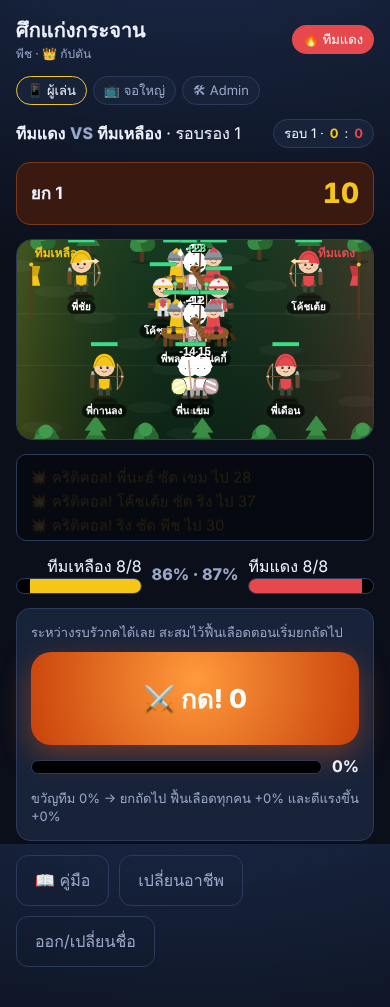
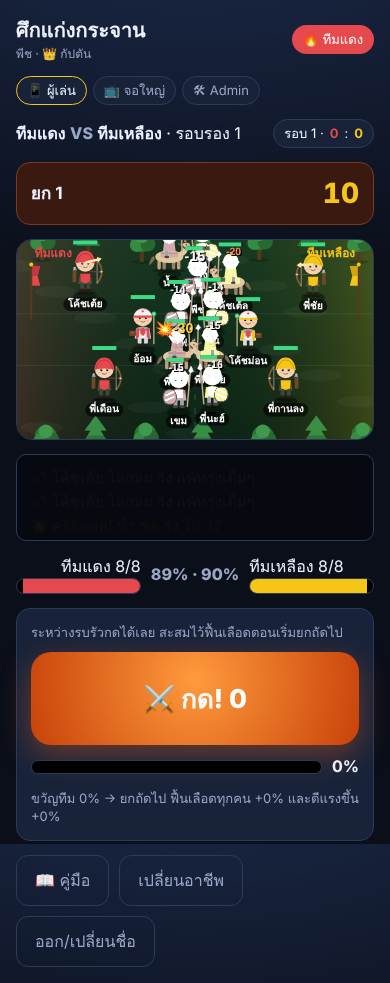
กันตัวละครซ้อนกัน (ทุกฝ่าย, สมมาตร) ระยะประชิดปรับตาม
Claude-Session: https://claude.ai/code/session_01JbJWCdY4QKd2woKbG6bJFF

Changed region(s): [[0.0, 0.0, 1.0, 0.9766], [0.7692, 0.0305, 0.9538, 0.061]]

diff --git a/js/sim.js b/js/sim.js
@@ -243,16 +243,23 @@ window.Sim = (function () {
           events.push({ t, type: 'die', id: target.id, name: target.name, cls: target.cls, side: target.side, by: u.id });
         }
       }
-      // กันซ้อนกัน (ฝ่ายเดียวกัน)
+      // กันซ้อนกัน (ทุกฝ่าย) คำนวณแรงผลักจากตำแหน่งเดียวกันทั้งหมดก่อนแล้วค่อยใช้ (สมมาตร ไม่ขึ้นกับลำดับ)
+      const SEP = S.separation || 0.085, AY = 0.5625;
+      const pushX = new Array(units.length).fill(0), pushY = new Array(units.length).fill(0);
       for (let i = 0; i < units.length; i++) {
         const a = units[i]; if (!a.alive || !a.deployed) continue;
         for (let j = i + 1; j < units.length; j++) {
-          const b = units[j]; if (!b.alive || !b.deployed || a.side !== b.side) continue;
-          const d = dist(a, b);
-          if (d < 0.06 && d > 0.0001) { const push = (0.06 - d) / 2; const dx = (a.x - b.x) / d, dy = (a.y - b.y) / d;
-            a.x += dx * push; a.y += dy * push; b.x -= dx * push; b.y -= dy * push; }
+          const b = units[j]; if (!b.alive || !b.deployed) continue;
+          const dx = a.x - b.x, dy = (a.y - b.y) * AY; const d = Math.sqrt(dx * dx + dy * dy);
+          if (d < SEP && d > 0.0001) { const push = (SEP - d) / 2; const nx = dx / d, ny = dy / d / AY;
+            pushX[i] += nx * push; pushY[i] += ny * push; pushX[j] -= nx * push; pushY[j] -= ny * push; }
+          else if (d <= 0.0001) { const sgn = a.side === 'A' ? -1 : 1; pushX[i] += sgn * 0.01; pushX[j] -= sgn * 0.01; }
         }
-        a.x = Math.max(0.03, Math.min(0.97, a.x)); a.y = Math.max(0.08, Math.min(0.92, a.y));
+      }
+      for (let i = 0; i < units.length; i++) {
+        const a = units[i]; if (!a.alive || !a.deployed) continue;
+        a.x += pushX[i]; a.y += pushY[i];
+        a.x = Math.max(0.03, Math.min(0.97, a.x)); a.y = Math.max(0.14, Math.min(0.9, a.y));
       }
     }
     // เฟรมสุดท้าย

diff --git a/index.html b/index.html
@@ -8,22 +8,22 @@
 <link rel="preconnect" href="https://fonts.googleapis.com">
 <link rel="preconnect" href="https://fonts.gstatic.com" crossorigin>
 <link href="https://fonts.googleapis.com/css2?family=Kanit:wght@400;500;600;700;800&family=Sarabun:wght@400;500;700&display=swap" rel="stylesheet">
-<link rel="stylesheet" href="css/style.css?v=20261018195859">
+<link rel="stylesheet" href="css/style.css?v=20261018224400">
 </head>
 <body>
 <div id="app" class="app"><div class="boot">กำลังโหลดสนามรบ…</div></div>
 <div id="toast" class="toast" hidden></div>
 
-<script src="js/vendor/firebase-app-compat.js?v=20261018195859"></script>
-<script src="js/vendor/firebase-database-compat.js?v=20261018195859"></script>
-<script src="js/vendor/morphdom-umd.js?v=20261018195859"></script>
+<script src="js/vendor/firebase-app-compat.js?v=20261018224400"></script>
+<script src="js/vendor/firebase-database-compat.js?v=20261018224400"></script>
+<script src="js/vendor/morphdom-umd.js?v=20261018224400"></script>
 <script src="https://cdnjs.cloudflare.com/ajax/libs/qrcodejs/1.0.0/qrcode.min.js"></script>
-<script src="js/config.js?v=20261018195859"></script>
-<script src="js/data.js?v=20261018195859"></script>
-<script src="js/store.js?v=20261018195859"></script>
-<script src="js/sim.js?v=20261018195859"></script>
-<script src="js/sprites.js?v=20261018195859"></script>
-<script src="js/render.js?v=20261018195859"></script>
-<script src="js/app.js?v=20261018195859"></script>
+<script src="js/config.js?v=20261018224400"></script>
+<script src="js/data.js?v=20261018224400"></script>
+<script src="js/store.js?v=20261018224400"></script>
+<script src="js/sim.js?v=20261018224400"></script>
+<script src="js/sprites.js?v=20261018224400"></script>
+<script src="js/render.js?v=20261018224400"></script>
+<script src="js/app.js?v=20261018224400"></script>
 </body>
 </html>

diff --git a/js/render.js b/js/render.js
@@ -166,7 +166,7 @@ window.BattleRenderer = (function () {
       ctx.fillStyle = teamColor(this.teams.B); ctx.textAlign = 'right'; ctx.fillText(D.TEAMS[this.teams.B].name, w - w * 0.05, 8);
     }
     _drawUnits(ctx) {
-      const w = this.w, h = this.h, R = Math.max(12, w * 0.034);
+      const w = this.w, h = this.h, R = Math.max(11, w * 0.03);
       const el = this.mode === 'play' ? this.elapsed() : 0;
       const order = [...this.units].sort((a, b) => { const pa = this.pos[a.id] || a, pb = this.pos[b.id] || b; const da = pa.alive === false ? 0 : 1, db = pb.alive === false ? 0 : 1; return da !== db ? da - db : pa.y - pb.y; });
       for (const u of order) {
@@ -268,7 +268,7 @@ window.BattleRenderer = (function () {
     }
     _drawEffects(ctx) {
       const w = this.w, h = this.h, el = this.mode === 'play' ? this.elapsed() : 0;
-      const R = Math.max(12, w * 0.034);
+      const R = Math.max(11, w * 0.03);
       this.effects = this.effects.filter((e) => el <= e.t0 + e.dur + 0.1);
       for (const e of this.effects) {
         if (el < e.t0) continue;

diff --git a/js/data.js b/js/data.js
@@ -75,7 +75,7 @@ window.GameData = (function () {
     varMin: 0.85, varMax: 1.15, critChance: 0.10, critMult: 2.0,
     moraleMax: 0.15, moraleHeal: 0.25, tapsPerPersonFull: 40,
     planFrontBonus: 1.10, planBackExposed: 1.15, cavCharge: 1.4, netDelay: 2, stunVuln: 1.3,
-    attackEvery: 1.0, atkEvery: { cav: 1.0, spear: 1.0, archer: 1.15, medic: 1.0 }, confuseSlow: 0.3, confuseWeak: 0.4, archerRange: 0.38, meleeRange: 0.055, healRange: 0.2,
+    attackEvery: 1.0, atkEvery: { cav: 1.0, spear: 1.0, archer: 1.15, medic: 1.0 }, confuseSlow: 0.3, confuseWeak: 0.4, archerRange: 0.38, meleeRange: 0.125, healRange: 0.24, separation: 0.11,
   };
 
   function slug(name) {
